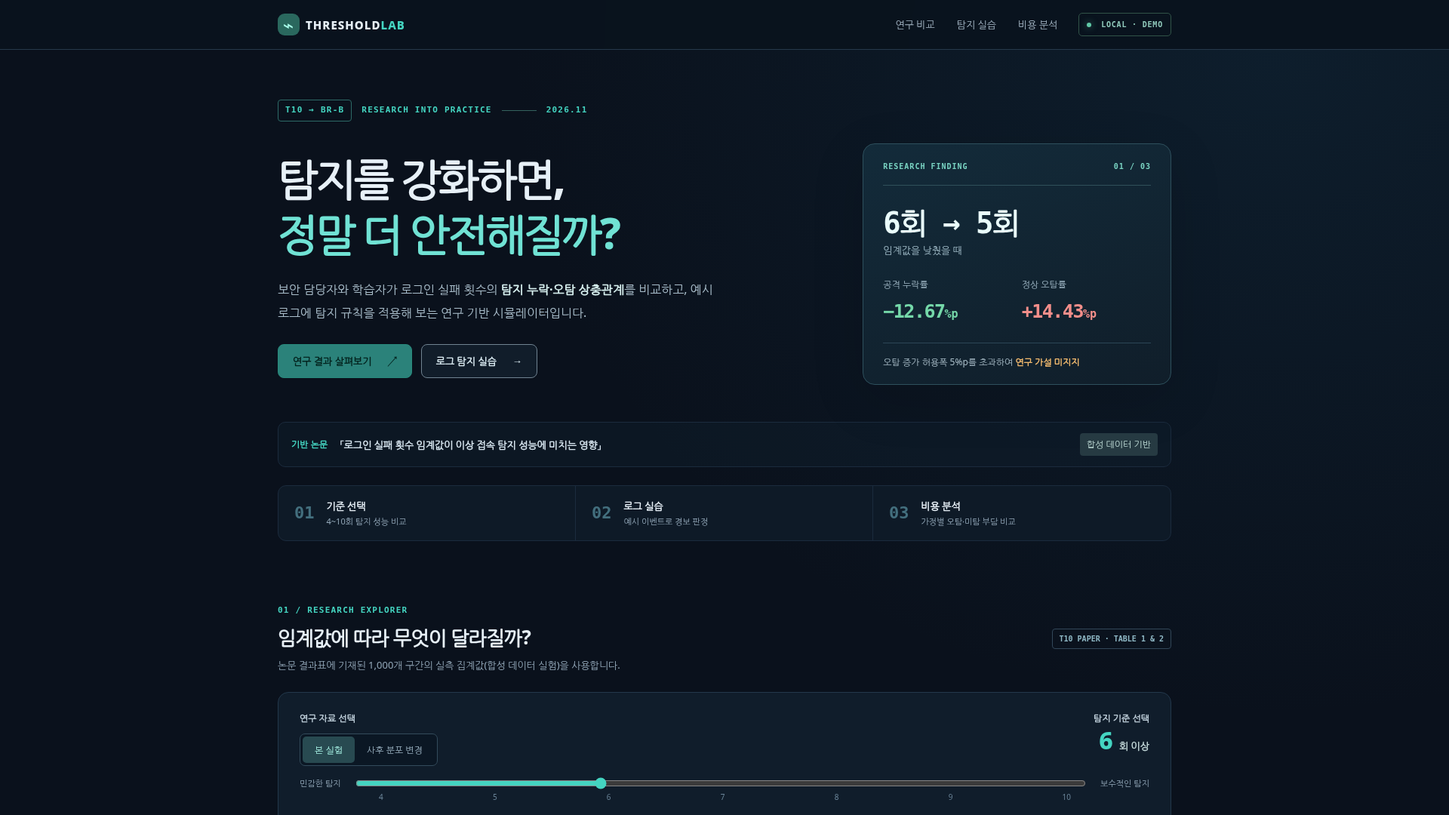
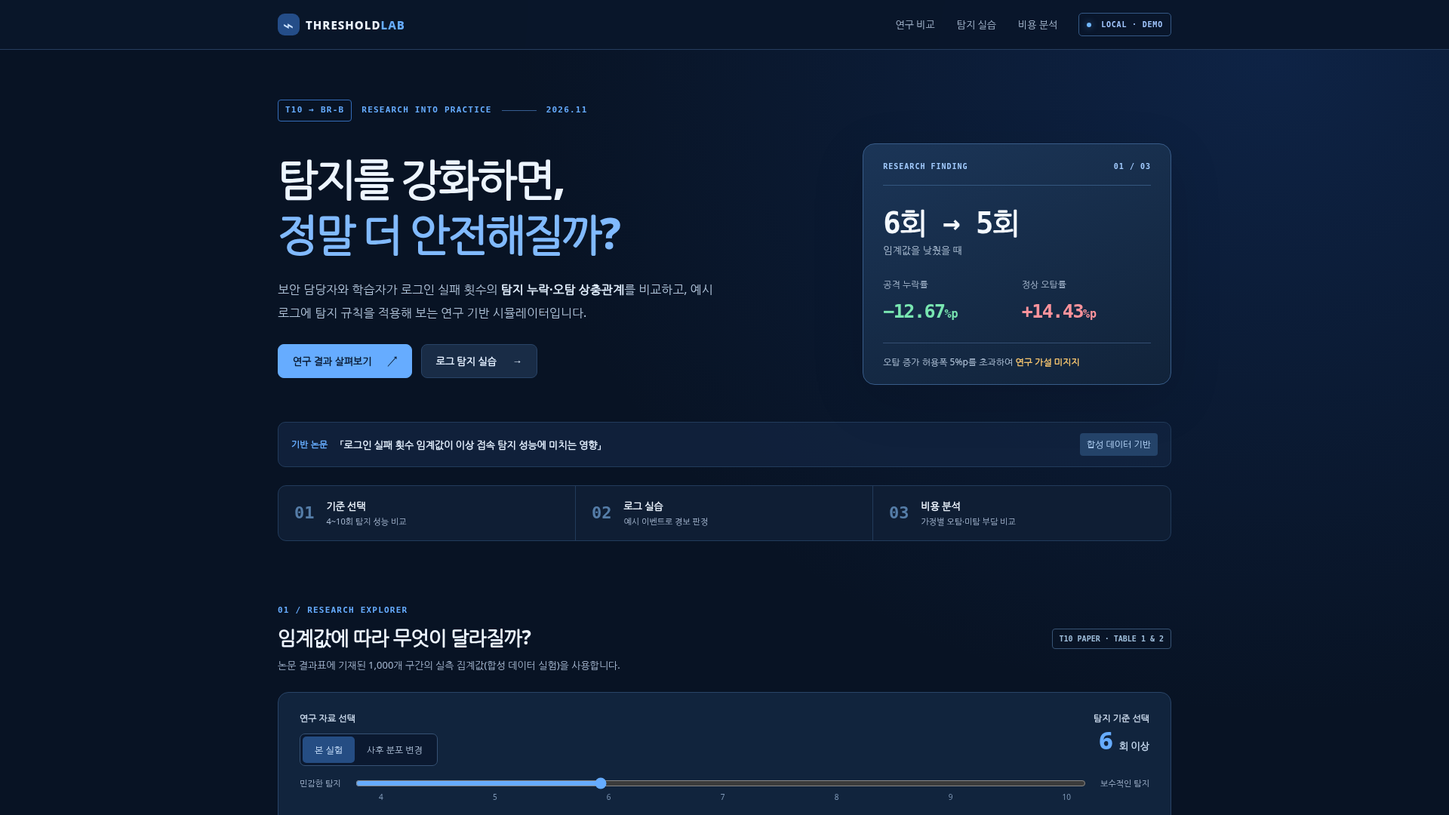
Update design to sapphire blue theme v0.2

diff --git a/styles.css b/styles.css
@@ -1,1 +1,1 @@
-:root{color-scheme:dark;--bg:#0a111c;--bg2:#0d1926;--panel:#101d2b;--panel2:#122334;--line:#23384b;--line2:#1b2b3d;--text:#e7f0f7;--muted:#94a9ba;--subtle:#6b8599;--accent:#44d5c1;--blue:#62a9fa;--amber:#f2ba6e;--red:#f38e8a;--green:#75d8a9;--radius:14px}*{box-sizing:border-box}html{scroll-behavior:smooth;scroll-padding-top:90px}body{margin:0;background:radial-gradient(ellipse 70% 29% at 88% 2%,#13314566,transparent 75%),var(--bg);color:var(--text);font:15px/1.6 system-ui,-apple-system,'Malgun Gothic','Apple SD Gothic Neo',sans-serif}button,input,select,textarea{font:inherit}button,a{touch-action:manipulation}a{color:inherit;text-decoration:none}a:hover{color:white}button{cursor:pointer}button:disabled{opacity:.45;cursor:not-allowed}button:focus-visible,a:focus-visible,input:focus-visible,textarea:focus-visible,select:focus-visible{outline:3px solid var(--accent);outline-offset:3px}input[type=range]{accent-color:var(--accent);cursor:pointer;width:100%}strong,b{font-weight:700}h1,h2,h3,p{margin-top:0}.skip-link{position:absolute;top:-100px;left:12px;padding:10px;background:#fff;color:#000;z-index:50}.skip-link:focus{top:12px}.visually-hidden{position:absolute;width:1px;height:1px;padding:0;clip:rect(0,0,0,0);overflow:hidden;white-space:nowrap}.topbar{height:66px;position:sticky;top:0;z-index:20;background:#0a131ef2;border-bottom:1px solid #26394b;backdrop-filter:blur(14px)}.topbar-inner{max-width:1240px;height:100%;margin:auto;display:flex;align-items:center;gap:28px;padding:0 28px}.brand{font-weight:800;letter-spacing:.07em;display:flex;align-items:center;gap:8px;font-size:15px;white-space:nowrap}.brand-symbol{width:29px;height:29px;display:inline-flex;align-items:center;justify-content:center;border-radius:9px;background:#2a685e;color:#aaffeb;font-size:24px;font-weight:400;line-height:1}.brand-light{color:var(--accent)}.navlinks{display:flex;align-items:center;gap:29px;margin-left:auto}.navlinks a{font-size:13px;color:#a8bac9}.navlinks a:hover{color:var(--accent)}.top-status{font:700 10px/1.3 ui-monospace,Consolas,monospace;color:#90cabc;letter-spacing:.08em;border:1px solid #315348;border-radius:5px;padding:8px 10px;white-space:nowrap}.status-light{display:inline-block;width:6px;height:6px;border-radius:50%;background:#60c9a8;margin-right:6px;box-shadow:0 0 10px #66d7a891}.page{max-width:1240px;margin:0 auto;padding:0 28px}.hero{padding-top:66px}.eyebrow,.section-index{font:700 11px/1.5 ui-monospace,Consolas,monospace;letter-spacing:.11em;color:var(--accent);display:flex;align-items:center;gap:13px}.tiny-box{border:1px solid #2d6a67;padding:5px 9px;border-radius:4px}.eyebrow-line{height:1px;background:#35635f;width:46px}.hero-content{display:grid;grid-template-columns:minmax(0,1.33fr) minmax(300px,.76fr);gap:60px;align-items:center;padding:29px 0 49px}.hero h1{font-size:clamp(36px,4.2vw,57px);letter-spacing:-.055em;line-height:1.28;margin-bottom:24px;font-weight:850}.gradient-text{color:#70e2d4}.hero-description{font-size:16px;color:#acc0cd;line-height:1.9;max-width:590px;word-break:keep-all;margin:0 0 27px}.hero-description strong{color:#d7f0ef}.hero-actions{display:flex;gap:12px;flex-wrap:wrap}.btn{display:inline-flex;gap:21px;align-items:center;justify-content:center;border:1px solid var(--line);padding:11px 19px;border-radius:8px;font-size:13px;font-weight:700;min-height:45px;transition:background .15s,border-color .15s}.btn.primary{background:var(--accent);color:#03241f;border-color:var(--accent)}.btn.primary:hover{background:#7de9d7;color:#03241f}.btn.ghost{background:#162635;color:#d8e9f0}.btn.ghost:hover{background:#203648}.hero-metric{background:linear-gradient(160deg,#132b3a,#101e2a);border:1px solid #2e505d;border-radius:16px;min-width:0;padding:23px 26px 20px;box-shadow:0 20px 70px #0002}.metric-caption{display:flex;justify-content:space-between;color:#79d3c2;font:700 10px/1.3 ui-monospace,monospace;letter-spacing:.1em;border-bottom:1px solid #30505a;padding-bottom:18px}.metric-key{font:800 39px/1.3 ui-monospace,Consolas,monospace;color:#e9fcfb;margin-top:25px;letter-spacing:-.04em}.metric-subtitle{color:#a2bdc9;font-size:13px}.hero-stats{display:grid;grid-template-columns:1fr 1fr;gap:12px;margin:25px 0 21px}.hero-stats>div{display:flex;flex-direction:column;gap:7px;min-width:0}.hero-stats span{font-size:12px;color:#9db5c3}.hero-stats strong{font-size:25px;font-family:ui-monospace,Consolas,monospace;letter-spacing:-.06em;white-space:nowrap}.hero-stats small{font-size:15px;letter-spacing:0}.good{color:var(--green)}.bad{color:var(--red)}.metric-foot{border-top:1px solid #2c4656;color:#a9bdc8;font-size:12px;padding-top:15px}.metric-foot b{color:var(--amber)}.research-citation{display:flex;align-items:center;gap:17px;border:1px solid var(--line2);border-radius:10px;background:#111f2d70;padding:14px 17px;font-size:12px;color:#afc2cd;flex-wrap:wrap}.research-citation>span:first-child{color:var(--accent);font-weight:700;white-space:nowrap}.research-citation strong{font-size:13px;color:#d6e4ee;font-weight:600}.citation-tag{margin-left:auto;border-radius:4px;background:#263a42;color:#bedbd6;padding:5px 9px;white-space:nowrap}.steps{display:grid;grid-template-columns:repeat(3,1fr);border:1px solid var(--line2);border-radius:11px;background:#0e1a27;margin-top:24px;overflow:hidden}.steps>div{display:flex;align-items:center;gap:16px;padding:16px 21px}.steps>div:not(:last-child){border-right:1px solid var(--line2)}.steps>div>span{font:800 22px/1.2 ui-monospace,monospace;color:#436f7e}.steps p{display:flex;flex-direction:column;gap:2px;margin:0}.steps b{font-size:13px}.steps small{font-size:11px;color:var(--muted)}.section-block{margin-top:84px;scroll-margin-top:88px}.section-heading{display:flex;justify-content:space-between;align-items:center;gap:18px;margin-bottom:25px}.section-index{margin-bottom:10px}.section-heading h2{font-size:26px;letter-spacing:-.035em;line-height:1.36;margin-bottom:8px}.section-subtitle{font-size:13px;color:var(--muted);margin:0}.badge{border-radius:4px;padding:5px 9px;font:700 10px/1.5 ui-monospace,monospace;white-space:nowrap;border:1px solid #324759;color:#b2c6d2}.badge.muted{color:#8fb8c5}.badge.aqua{color:#7be6d1;border-color:#307265}.panel{background:var(--panel);border:1px solid var(--line);border-radius:var(--radius);padding:22px;min-width:0}.control-panel{padding:24px 28px}.control-top{display:flex;justify-content:space-between;align-items:flex-start;gap:20px}.input-title{color:#bdcdd8;font-size:12px;font-weight:650;display:block;margin-bottom:11px}.segmented{display:flex;gap:0;border:1px solid #334b5b;border-radius:7px;padding:3px;width:max-content;background:#0b1724}.segmented button{border:0;color:#9ab1c0;background:transparent;border-radius:5px;padding:8px 16px;font-size:12px}.segmented button[aria-pressed=true]{background:#284a51;color:#a8f4e6}.threshold-head{text-align:right}.threshold-head .input-title{margin-bottom:0}.threshold-display{display:block;color:var(--accent);font-size:32px;font-weight:800;line-height:1.25}.threshold-display small{color:#bed3d4;font-size:13px}.slider-row{display:flex;gap:17px;align-items:center;margin-top:13px}.slider-row>span{font-size:11px;color:var(--muted);white-space:nowrap}.slider-ticks{display:flex;justify-content:space-between;margin:0 104px 0 105px;color:var(--subtle);font-size:10px}.context-text{color:var(--muted);font-size:12px;margin:16px 0 0}.mode-description{margin-top:7px;color:#79aeaf}.stats-grid{display:grid;grid-template-columns:repeat(4,minmax(0,1fr));gap:13px;margin:15px 0}.stat-card{background:var(--panel);border:1px solid var(--line);border-radius:12px;padding:19px 20px;min-height:133px;display:flex;flex-direction:column;gap:9px}.stat-card>span{font-size:12px;color:#acc0cd}.stat-card>strong{font:800 29px/1.2 ui-monospace,Consolas,monospace;letter-spacing:-.03em}.stat-card>small{font-size:11px;color:var(--muted)}.two-col{display:grid;grid-template-columns:1.1fr 1fr;gap:15px}.panel-head{display:flex;align-items:center;justify-content:space-between;gap:12px;margin-bottom:22px}.panel-head h3{font-size:15px;line-height:1.4;margin:0;letter-spacing:-.02em}.legend{display:flex;gap:8px;align-items:center;white-space:nowrap;font-size:10px;color:#a9bfce}.legend i{width:9px;height:9px;display:inline-block;border-radius:2px}.legend-blue{background:var(--blue)}.legend-amber{background:var(--amber)}.label-small{color:var(--muted);font-size:11px}.chart-panel,.matrix-panel{min-height:334px}.tradeoff-chart{height:223px;display:flex;align-items:end;justify-content:space-around;gap:5px;padding:12px 1px 0;border-bottom:1px solid #375064;background:repeating-linear-gradient(to top,transparent,transparent 54px,#1b3243 55px)}.bar-group{display:flex;flex-direction:column;justify-content:flex-end;gap:6px;min-width:0;align-items:center;height:100%;flex:1;position:relative}.bar-inner{height:166px;display:flex;align-items:flex-end;gap:4px;width:100%;max-width:64px;justify-content:center}.bar-group .bar{width:32%;max-width:25px;min-width:9px;border-radius:4px 4px 0 0;position:relative;transition:height .2s ease}.bar.blue{background:#4891d0}.bar.amber{background:#d7a45e}.bar-group.selected .bar.blue{background:#7db7ff;box-shadow:0 0 11px #559fff42}.bar-group.selected .bar.amber{background:#ffd08f;box-shadow:0 0 11px #e8b25d42}.bar-group.selected:after{content:'';position:absolute;inset:-9px 0 19px;border:1px dashed #6a9d9f;border-radius:6px;pointer-events:none}.bar-group .bar-label{font:600 11px ui-monospace,monospace;color:#a6bac7;height:18px}.bar-group.selected .bar-label{color:var(--accent)}.micro-note{font-size:11px;color:var(--subtle);margin:12px 0 0;line-height:1.55}.matrix-grid{display:grid;grid-template-columns:95px 1fr 1fr;grid-template-rows:24px 83px 83px;gap:5px;align-items:stretch}.matrix-col,.matrix-axis{font-size:10px;color:#a9c0cd;display:flex;justify-content:center;align-items:center;text-align:center}.matrix-axis{padding:2px;line-height:1.3}.matrix-cell{border-radius:8px;display:flex;flex-direction:column;align-items:center;justify-content:center;gap:3px;border:1px solid #34545b}.matrix-cell span{font-size:11px}.matrix-cell strong{font:800 26px ui-monospace,monospace}.matrix-cell.tp{background:#173d3f;color:#9aefdc}.matrix-cell.tn{background:#1b3740;color:#b0e1eb}.matrix-cell.fp{background:#473524;color:#ffd69d;border-color:#5c4c33}.matrix-cell.fn{background:#41272c;color:#f7afb0;border-color:#58363d}.results-panel{margin-top:15px;padding-bottom:13px}.results-panel .panel-head{margin-bottom:8px}.table-scroll{overflow-x:auto}.table-scroll table{border-collapse:collapse;width:100%;font-size:12px;white-space:nowrap}.table-scroll th{color:#9cb4c2;font-weight:600;text-align:right;border-bottom:1px solid #354d5d;padding:12px 10px}.table-scroll td{color:#d9e9f0;text-align:right;padding:10px;border-bottom:1px solid #1f3344;font-variant-numeric:tabular-nums}.table-scroll th:first-child,.table-scroll td:first-child{text-align:left}.table-scroll tbody tr.selected{background:#24414568}.table-scroll tbody tr.selected td:first-child{color:var(--accent);font-weight:750}.table-scroll tbody tr:last-child td{border-bottom:0}.insight-box{border:1px solid #6e5837;background:#2b271e;border-radius:12px;padding:18px 20px;display:flex;gap:15px;margin-top:15px}.insight-icon{border-radius:50%;background:#765b32;color:#ffdc9c;height:24px;width:24px;min-width:24px;text-align:center;font-size:16px;font-weight:800;line-height:24px}.insight-box strong{color:#ffd397;font-size:14px}.insight-box p{margin:7px 0 0;color:#d9c6a5;font-size:12px}.insight-box .insight-note{color:#bdb4a3;font-size:11px}.demo-warning{border:1px solid #345461;background:#132632;padding:12px 17px;color:#b8cfd6;border-radius:9px;font-size:12px;margin-bottom:15px}.demo-warning b{color:#b7efda}.simulator-layout{grid-template-columns:1fr 1fr}.editor-panel textarea{display:block;width:100%;min-height:285px;resize:vertical;background:#091522;color:#b6e5d0;border:1px solid #344b5c;border-radius:9px;padding:13px;font:12px/1.55 ui-monospace,Consolas,monospace;white-space:pre;tab-size:2}.small-label{font-size:11px;color:#a7c0cc;display:block;margin:0 0 8px}.text-button{border:0;background:none;color:var(--accent);font-size:12px;text-decoration:underline;text-underline-offset:3px}.text-button:hover{color:#a6ffee}.editor-actions{display:flex;align-items:center;gap:13px;margin-top:16px;flex-wrap:wrap}.sim-kpis{display:grid;grid-template-columns:repeat(4,1fr);gap:7px;margin-bottom:24px}.sim-kpis>div{background:#172a3a;border:1px solid #2b4353;border-radius:8px;padding:13px 7px;text-align:center;display:flex;flex-direction:column;gap:7px}.sim-kpis span{font-size:10px;color:#a4bac7}.sim-kpis b{font:800 24px ui-monospace,monospace}.simulator-output .panel-head{margin-bottom:16px}.sim-table-wrap{max-height:289px;min-height:165px;overflow:auto}.sim-table-wrap table{font-size:11px}.sim-table-wrap th,.sim-table-wrap td{padding:9px 6px}.sim-table-wrap th:first-child,.sim-table-wrap td:first-child{text-align:left}.sim-table-wrap .item-ip{display:block;color:#cedee8}.sim-table-wrap .item-time{display:block;color:#83a6b8;font-size:10px}.sim-table-wrap td:first-child{min-width:135px}.class-tp,.class-tn{color:var(--green)}.class-fn,.class-fp{color:var(--red)}.errors{font-size:11px;margin:5px 0;color:#ffb4ab}.errors ul{padding-left:18px;margin:5px 0}.scenario-layout{grid-template-columns:.76fr 1.24fr}.setting-row{margin:19px 0 22px}.setting-row label{display:flex;justify-content:space-between;align-items:center;gap:10px;font-size:12px;color:#bbd0d9;margin-bottom:12px}.setting-row label strong{color:var(--accent);font:800 18px ui-monospace,monospace}.preset-row{display:flex;gap:7px;margin-top:8px}.preset-row button{border:1px solid #344e5d;background:#152737;color:#94adbb;border-radius:6px;padding:4px 14px;font-size:11px}.preset-row button[aria-pressed=true]{color:#b5f6e6;border-color:#378b78;background:#1a3f3b}.setting-row select{background:#132838;color:#d8e9ef;border:1px solid #385062;padding:10px 13px;border-radius:7px;width:100%;font-size:12px}.formula{background:#0c1724;border:1px solid #294051;border-radius:8px;padding:13px}.formula small{font-size:10px;color:#89a5b5}.formula p{font:600 12px/1.8 ui-monospace,Consolas,monospace;color:#9fe9d8;margin:8px 0}.cost-highlight{background:linear-gradient(120deg,#1b3940,#142a38);border:1px solid #31625f;border-radius:9px;padding:13px 18px;display:flex;align-items:center;gap:18px;flex-wrap:wrap;margin-bottom:16px}.cost-highlight>span{font-size:11px;color:#accacf}.cost-highlight strong{font:800 25px ui-monospace,monospace;color:var(--accent)}.cost-highlight p{margin:0;color:#a8c5c8;font-size:11px}.cost-bars{display:flex;flex-direction:column;gap:10px}.cost-item{display:grid;grid-template-columns:35px 1fr 58px;gap:13px;align-items:center}.cost-item .cost-name{font-size:11px;color:#b9cbd4}.cost-item .cost-track{height:13px;background:#1a2f41;border-radius:3px;overflow:hidden}.cost-item .cost-fill{height:100%;background:#5793b8;border-radius:3px;transition:width .2s ease}.cost-item.best .cost-fill{background:var(--accent)}.cost-item .cost-number{font:600 11px ui-monospace,monospace;color:#a7c2cf;text-align:right}.footer-actions{margin-top:20px;display:flex;align-items:center;gap:15px}.footer{margin-top:89px;border-top:1px solid #263a4a;padding:33px 0 54px;display:grid;grid-template-columns:1.1fr 1fr;gap:35px;color:#7e9bab}.footer-brand{margin-bottom:14px;color:#d2e7e7}.footer p,.footer ul{margin:5px 0;font-size:11px}.footer ul{padding-left:17px}.footer li{margin:4px 0}@media(max-width:980px){.hero-content{gap:25px;grid-template-columns:1.1fr 1fr}.hero h1{font-size:clamp(31px,4.4vw,44px)}.hero-stats strong{font-size:20px}.two-col{grid-template-columns:1fr}.chart-panel,.matrix-panel{min-height:310px}.simulator-layout,.scenario-layout{grid-template-columns:1fr}.stats-grid{grid-template-columns:repeat(2,1fr)}.section-block{margin-top:65px}}@media(max-width:660px){.page{padding:0 16px}.topbar-inner{padding:0 16px}.topbar{height:58px}.brand{font-size:12px}.navlinks{gap:12px}.navlinks a{font-size:11px}.top-status{display:none}.hero{padding-top:39px}.hero-content{grid-template-columns:1fr;padding:20px 0 24px}.hero h1{font-size:clamp(30px,8vw,43px);margin-bottom:18px}.hero-description{font-size:14px}.hero-metric{padding:17px 20px}.hero-stats strong{font-size:26px}.research-citation{gap:8px;padding:12px;font-size:11px}.citation-tag{margin-left:0}.steps{grid-template-columns:1fr;margin-top:15px}.steps>div{padding:11px 14px}.steps>div:not(:last-child){border-right:0;border-bottom:1px solid var(--line2)}.steps>div>span{font-size:17px}.steps p{flex-direction:row;align-items:center;gap:13px}.section-heading{align-items:flex-start;flex-direction:column;gap:9px}.section-heading h2{font-size:22px}.section-block{margin-top:52px}.control-panel{padding:18px}.control-top{flex-wrap:wrap}.threshold-head{text-align:left}.slider-row{gap:8px}.slider-row>span{font-size:9px;max-width:60px;white-space:normal}.slider-ticks{margin:0 68px}.stat-card{padding:14px;min-height:117px}.stat-card>strong{font-size:23px}.stat-card>small{font-size:10px}.panel{padding:16px}.panel-head{flex-wrap:wrap;gap:7px}.legend{font-size:9px}.matrix-grid{grid-template-columns:70px 1fr 1fr}.matrix-cell span{font-size:9px}.matrix-cell strong{font-size:23px}.insight-box{padding:14px 12px}.sim-kpis{grid-template-columns:repeat(2,1fr)}.footer{grid-template-columns:1fr;margin-top:50px}.cost-highlight{gap:10px}}@media(max-width:360px){.navlinks{gap:7px}.navlinks a{font-size:10px}.hero-stats strong{font-size:20px}.stat-card>strong{font-size:21px}}@media(prefers-reduced-motion:reduce){*,*::before,*::after{animation-duration:.01ms!important;transition-duration:.01ms!important;scroll-behavior:auto!important}}
+:root{color-scheme:dark;--bg:#081324;--bg2:#0e1d32;--panel:#11243d;--panel2:#182d4a;--line:#294467;--line2:#223b5b;--text:#edf5ff;--muted:#abbdd6;--subtle:#809ab9;--accent:#66acff;--blue:#6a9dfb;--amber:#f3c36e;--red:#ff939b;--green:#79e6b1;--radius:14px}*{box-sizing:border-box}html{scroll-behavior:smooth;scroll-padding-top:90px}body{margin:0;background:radial-gradient(ellipse 70% 29% at 88% 2%,#173b7766,transparent 75%),var(--bg);color:var(--text);font:15px/1.6 system-ui,-apple-system,'Malgun Gothic','Apple SD Gothic Neo',sans-serif}button,input,select,textarea{font:inherit}button,a{touch-action:manipulation}a{color:inherit;text-decoration:none}a:hover{color:white}button{cursor:pointer}button:disabled{opacity:.45;cursor:not-allowed}button:focus-visible,a:focus-visible,input:focus-visible,textarea:focus-visible,select:focus-visible{outline:3px solid var(--accent);outline-offset:3px}input[type=range]{accent-color:var(--accent);cursor:pointer;width:100%}strong,b{font-weight:700}h1,h2,h3,p{margin-top:0}.skip-link{position:absolute;top:-100px;left:12px;padding:10px;background:#fff;color:#000;z-index:50}.skip-link:focus{top:12px}.visually-hidden{position:absolute;width:1px;height:1px;padding:0;clip:rect(0,0,0,0);overflow:hidden;white-space:nowrap}.topbar{height:66px;position:sticky;top:0;z-index:20;background:#09162af2;border-bottom:1px solid #263d5e;backdrop-filter:blur(14px)}.topbar-inner{max-width:1240px;height:100%;margin:auto;display:flex;align-items:center;gap:28px;padding:0 28px}.brand{font-weight:800;letter-spacing:.07em;display:flex;align-items:center;gap:8px;font-size:15px;white-space:nowrap}.brand-symbol{width:29px;height:29px;display:inline-flex;align-items:center;justify-content:center;border-radius:9px;background:#244d88;color:#cbe2ff;font-size:24px;font-weight:400;line-height:1}.brand-light{color:var(--accent)}.navlinks{display:flex;align-items:center;gap:29px;margin-left:auto}.navlinks a{font-size:13px;color:#aec1d8}.navlinks a:hover{color:var(--accent)}.top-status{font:700 10px/1.3 ui-monospace,Consolas,monospace;color:#a2c7ff;letter-spacing:.08em;border:1px solid #355986;border-radius:5px;padding:8px 10px;white-space:nowrap}.status-light{display:inline-block;width:6px;height:6px;border-radius:50%;background:#70b8ff;margin-right:6px;box-shadow:0 0 10px #65a8ff91}.page{max-width:1240px;margin:0 auto;padding:0 28px}.hero{padding-top:66px}.eyebrow,.section-index{font:700 11px/1.5 ui-monospace,Consolas,monospace;letter-spacing:.11em;color:var(--accent);display:flex;align-items:center;gap:13px}.tiny-box{border:1px solid #346cb9;padding:5px 9px;border-radius:4px}.eyebrow-line{height:1px;background:#365d91;width:46px}.hero-content{display:grid;grid-template-columns:minmax(0,1.33fr) minmax(300px,.76fr);gap:60px;align-items:center;padding:29px 0 49px}.hero h1{font-size:clamp(36px,4.2vw,57px);letter-spacing:-.055em;line-height:1.28;margin-bottom:24px;font-weight:850}.gradient-text{color:#81baff}.hero-description{font-size:16px;color:#b4c7dd;line-height:1.9;max-width:590px;word-break:keep-all;margin:0 0 27px}.hero-description strong{color:#e3f0ff}.hero-actions{display:flex;gap:12px;flex-wrap:wrap}.btn{display:inline-flex;gap:21px;align-items:center;justify-content:center;border:1px solid var(--line);padding:11px 19px;border-radius:8px;font-size:13px;font-weight:700;min-height:45px;transition:background .15s,border-color .15s}.btn.primary{background:var(--accent);color:#091a33;border-color:var(--accent)}.btn.primary:hover{background:#95c5ff;color:#091a33}.btn.ghost{background:#192c46;color:#e3efff}.btn.ghost:hover{background:#233d60}.hero-metric{background:linear-gradient(160deg,#1b3557,#11233a);border:1px solid #385c89;border-radius:16px;min-width:0;padding:23px 26px 20px;box-shadow:0 20px 70px #0002}.metric-caption{display:flex;justify-content:space-between;color:#a3ccff;font:700 10px/1.3 ui-monospace,monospace;letter-spacing:.1em;border-bottom:1px solid #34577f;padding-bottom:18px}.metric-key{font:800 39px/1.3 ui-monospace,Consolas,monospace;color:#f4f9ff;margin-top:25px;letter-spacing:-.04em}.metric-subtitle{color:#b5c7db;font-size:13px}.hero-stats{display:grid;grid-template-columns:1fr 1fr;gap:12px;margin:25px 0 21px}.hero-stats>div{display:flex;flex-direction:column;gap:7px;min-width:0}.hero-stats span{font-size:12px;color:#aebfd5}.hero-stats strong{font-size:25px;font-family:ui-monospace,Consolas,monospace;letter-spacing:-.06em;white-space:nowrap}.hero-stats small{font-size:15px;letter-spacing:0}.good{color:var(--green)}.bad{color:var(--red)}.metric-foot{border-top:1px solid #344e72;color:#b9cbe0;font-size:12px;padding-top:15px}.metric-foot b{color:var(--amber)}.research-citation{display:flex;align-items:center;gap:17px;border:1px solid var(--line2);border-radius:10px;background:#132643b8;padding:14px 17px;font-size:12px;color:#b8c9de;flex-wrap:wrap}.research-citation>span:first-child{color:var(--accent);font-weight:700;white-space:nowrap}.research-citation strong{font-size:13px;color:#e1edfc;font-weight:600}.citation-tag{margin-left:auto;border-radius:4px;background:#244369;color:#bcdcff;padding:5px 9px;white-space:nowrap}.steps{display:grid;grid-template-columns:repeat(3,1fr);border:1px solid var(--line2);border-radius:11px;background:#0f1e34;margin-top:24px;overflow:hidden}.steps>div{display:flex;align-items:center;gap:16px;padding:16px 21px}.steps>div:not(:last-child){border-right:1px solid var(--line2)}.steps>div>span{font:800 22px/1.2 ui-monospace,monospace;color:#557da8}.steps p{display:flex;flex-direction:column;gap:2px;margin:0}.steps b{font-size:13px}.steps small{font-size:11px;color:var(--muted)}.section-block{margin-top:84px;scroll-margin-top:88px}.section-heading{display:flex;justify-content:space-between;align-items:center;gap:18px;margin-bottom:25px}.section-index{margin-bottom:10px}.section-heading h2{font-size:26px;letter-spacing:-.035em;line-height:1.36;margin-bottom:8px}.section-subtitle{font-size:13px;color:var(--muted);margin:0}.badge{border-radius:4px;padding:5px 9px;font:700 10px/1.5 ui-monospace,monospace;white-space:nowrap;border:1px solid #385475;color:#c4d2e5}.badge.muted{color:#9fbedb}.badge.aqua{color:#aad0ff;border-color:#376da8}.panel{background:var(--panel);border:1px solid var(--line);border-radius:var(--radius);padding:22px;min-width:0}.control-panel{padding:24px 28px}.control-top{display:flex;justify-content:space-between;align-items:flex-start;gap:20px}.input-title{color:#c4d3e5;font-size:12px;font-weight:650;display:block;margin-bottom:11px}.segmented{display:flex;gap:0;border:1px solid #365274;border-radius:7px;padding:3px;width:max-content;background:#0b1930}.segmented button{border:0;color:#afc2d9;background:transparent;border-radius:5px;padding:8px 16px;font-size:12px}.segmented button[aria-pressed=true]{background:#254d83;color:#cee5ff}.threshold-head{text-align:right}.threshold-head .input-title{margin-bottom:0}.threshold-display{display:block;color:var(--accent);font-size:32px;font-weight:800;line-height:1.25}.threshold-display small{color:#bfd2e8;font-size:13px}.slider-row{display:flex;gap:17px;align-items:center;margin-top:13px}.slider-row>span{font-size:11px;color:var(--muted);white-space:nowrap}.slider-ticks{display:flex;justify-content:space-between;margin:0 104px 0 105px;color:var(--subtle);font-size:10px}.context-text{color:var(--muted);font-size:12px;margin:16px 0 0}.mode-description{margin-top:7px;color:#9abfe9}.stats-grid{display:grid;grid-template-columns:repeat(4,minmax(0,1fr));gap:13px;margin:15px 0}.stat-card{background:var(--panel);border:1px solid var(--line);border-radius:12px;padding:19px 20px;min-height:133px;display:flex;flex-direction:column;gap:9px}.stat-card>span{font-size:12px;color:#b4c7dd}.stat-card>strong{font:800 29px/1.2 ui-monospace,Consolas,monospace;letter-spacing:-.03em}.stat-card>small{font-size:11px;color:var(--muted)}.two-col{display:grid;grid-template-columns:1.1fr 1fr;gap:15px}.panel-head{display:flex;align-items:center;justify-content:space-between;gap:12px;margin-bottom:22px}.panel-head h3{font-size:15px;line-height:1.4;margin:0;letter-spacing:-.02em}.legend{display:flex;gap:8px;align-items:center;white-space:nowrap;font-size:10px;color:#c0cee1}.legend i{width:9px;height:9px;display:inline-block;border-radius:2px}.legend-blue{background:var(--blue)}.legend-amber{background:var(--amber)}.label-small{color:var(--muted);font-size:11px}.chart-panel,.matrix-panel{min-height:334px}.tradeoff-chart{height:223px;display:flex;align-items:end;justify-content:space-around;gap:5px;padding:12px 1px 0;border-bottom:1px solid #36577a;background:repeating-linear-gradient(to top,transparent,transparent 54px,#1f3655 55px)}.bar-group{display:flex;flex-direction:column;justify-content:flex-end;gap:6px;min-width:0;align-items:center;height:100%;flex:1;position:relative}.bar-inner{height:166px;display:flex;align-items:flex-end;gap:4px;width:100%;max-width:64px;justify-content:center}.bar-group .bar{width:32%;max-width:25px;min-width:9px;border-radius:4px 4px 0 0;position:relative;transition:height .2s ease}.bar.blue{background:#528fec}.bar.amber{background:#da9d51}.bar-group.selected .bar.blue{background:#94c1ff;box-shadow:0 0 11px #5b9eff54}.bar-group.selected .bar.amber{background:#ffce86;box-shadow:0 0 11px #e8b25d42}.bar-group.selected:after{content:'';position:absolute;inset:-9px 0 19px;border:1px dashed #84b2ff;border-radius:6px;pointer-events:none}.bar-group .bar-label{font:600 11px ui-monospace,monospace;color:#bacce1;height:18px}.bar-group.selected .bar-label{color:var(--accent)}.micro-note{font-size:11px;color:var(--subtle);margin:12px 0 0;line-height:1.55}.matrix-grid{display:grid;grid-template-columns:95px 1fr 1fr;grid-template-rows:24px 83px 83px;gap:5px;align-items:stretch}.matrix-col,.matrix-axis{font-size:10px;color:#bacfe5;display:flex;justify-content:center;align-items:center;text-align:center}.matrix-axis{padding:2px;line-height:1.3}.matrix-cell{border-radius:8px;display:flex;flex-direction:column;align-items:center;justify-content:center;gap:3px;border:1px solid #3d587c}.matrix-cell span{font-size:11px}.matrix-cell strong{font:800 26px ui-monospace,monospace}.matrix-cell.tp{background:#183f3e;color:#8ff0bd}.matrix-cell.tn{background:#203952;color:#bcdfff}.matrix-cell.fp{background:#433322;color:#ffdbad;border-color:#665136}.matrix-cell.fn{background:#432930;color:#ffb6bc;border-color:#71404b}.results-panel{margin-top:15px;padding-bottom:13px}.results-panel .panel-head{margin-bottom:8px}.table-scroll{overflow-x:auto}.table-scroll table{border-collapse:collapse;width:100%;font-size:12px;white-space:nowrap}.table-scroll th{color:#b7c9de;font-weight:600;text-align:right;border-bottom:1px solid #355271;padding:12px 10px}.table-scroll td{color:#e0edfb;text-align:right;padding:10px;border-bottom:1px solid #263e5d;font-variant-numeric:tabular-nums}.table-scroll th:first-child,.table-scroll td:first-child{text-align:left}.table-scroll tbody tr.selected{background:#2e548b80}.table-scroll tbody tr.selected td:first-child{color:var(--accent);font-weight:750}.table-scroll tbody tr:last-child td{border-bottom:0}.insight-box{border:1px solid #88662f;background:#30291e;border-radius:12px;padding:18px 20px;display:flex;gap:15px;margin-top:15px}.insight-icon{border-radius:50%;background:#77561e;color:#ffdfac;height:24px;width:24px;min-width:24px;text-align:center;font-size:16px;font-weight:800;line-height:24px}.insight-box strong{color:#ffdb99;font-size:14px}.insight-box p{margin:7px 0 0;color:#e7d3b0;font-size:12px}.insight-box .insight-note{color:#ccbeaa;font-size:11px}.demo-warning{border:1px solid #375879;background:#172b46;padding:12px 17px;color:#c0d5e9;border-radius:9px;font-size:12px;margin-bottom:15px}.demo-warning b{color:#afd8ff}.simulator-layout{grid-template-columns:1fr 1fr}.editor-panel textarea{display:block;width:100%;min-height:285px;resize:vertical;background:#0a182f;color:#b7d8ff;border:1px solid #355679;border-radius:9px;padding:13px;font:12px/1.55 ui-monospace,Consolas,monospace;white-space:pre;tab-size:2}.small-label{font-size:11px;color:#b6cbdf;display:block;margin:0 0 8px}.text-button{border:0;background:none;color:var(--accent);font-size:12px;text-decoration:underline;text-underline-offset:3px}.text-button:hover{color:#d4e9ff}.editor-actions{display:flex;align-items:center;gap:13px;margin-top:16px;flex-wrap:wrap}.sim-kpis{display:grid;grid-template-columns:repeat(4,1fr);gap:7px;margin-bottom:24px}.sim-kpis>div{background:#1a3152;border:1px solid #315071;border-radius:8px;padding:13px 7px;text-align:center;display:flex;flex-direction:column;gap:7px}.sim-kpis span{font-size:10px;color:#b5c9df}.sim-kpis b{font:800 24px ui-monospace,monospace}.simulator-output .panel-head{margin-bottom:16px}.sim-table-wrap{max-height:289px;min-height:165px;overflow:auto}.sim-table-wrap table{font-size:11px}.sim-table-wrap th,.sim-table-wrap td{padding:9px 6px}.sim-table-wrap th:first-child,.sim-table-wrap td:first-child{text-align:left}.sim-table-wrap .item-ip{display:block;color:#e1edfd}.sim-table-wrap .item-time{display:block;color:#9fbfe0;font-size:10px}.sim-table-wrap td:first-child{min-width:135px}.class-tp,.class-tn{color:var(--green)}.class-fn,.class-fp{color:var(--red)}.errors{font-size:11px;margin:5px 0;color:#ffb4b8}.errors ul{padding-left:18px;margin:5px 0}.scenario-layout{grid-template-columns:.76fr 1.24fr}.setting-row{margin:19px 0 22px}.setting-row label{display:flex;justify-content:space-between;align-items:center;gap:10px;font-size:12px;color:#c5d5e8;margin-bottom:12px}.setting-row label strong{color:var(--accent);font:800 18px ui-monospace,monospace}.preset-row{display:flex;gap:7px;margin-top:8px}.preset-row button{border:1px solid #355677;background:#172b48;color:#aebfdb;border-radius:6px;padding:4px 14px;font-size:11px}.preset-row button[aria-pressed=true]{color:#d0e6ff;border-color:#4c80bd;background:#1d416b}.setting-row select{background:#162c4a;color:#e4effe;border:1px solid #385a7f;padding:10px 13px;border-radius:7px;width:100%;font-size:12px}.formula{background:#0e1b32;border:1px solid #2d4d74;border-radius:8px;padding:13px}.formula small{font-size:10px;color:#a1bbd7}.formula p{font:600 12px/1.8 ui-monospace,Consolas,monospace;color:#b4d6ff;margin:8px 0}.cost-highlight{background:linear-gradient(120deg,#203e67,#18314e);border:1px solid #3d68a0;border-radius:9px;padding:13px 18px;display:flex;align-items:center;gap:18px;flex-wrap:wrap;margin-bottom:16px}.cost-highlight>span{font-size:11px;color:#c2d7eb}.cost-highlight strong{font:800 25px ui-monospace,monospace;color:var(--accent)}.cost-highlight p{margin:0;color:#b1c9e4;font-size:11px}.cost-bars{display:flex;flex-direction:column;gap:10px}.cost-item{display:grid;grid-template-columns:35px 1fr 58px;gap:13px;align-items:center}.cost-item .cost-name{font-size:11px;color:#c4d4e7}.cost-item .cost-track{height:13px;background:#20395e;border-radius:3px;overflow:hidden}.cost-item .cost-fill{height:100%;background:#5085cc;border-radius:3px;transition:width .2s ease}.cost-item.best .cost-fill{background:var(--accent)}.cost-item .cost-number{font:600 11px ui-monospace,monospace;color:#b9cee4;text-align:right}.footer-actions{margin-top:20px;display:flex;align-items:center;gap:15px}.footer{margin-top:89px;border-top:1px solid #2b4466;padding:33px 0 54px;display:grid;grid-template-columns:1.1fr 1fr;gap:35px;color:#95abc6}.footer-brand{margin-bottom:14px;color:#e2efff}.footer p,.footer ul{margin:5px 0;font-size:11px}.footer ul{padding-left:17px}.footer li{margin:4px 0}@media(max-width:980px){.hero-content{gap:25px;grid-template-columns:1.1fr 1fr}.hero h1{font-size:clamp(31px,4.4vw,44px)}.hero-stats strong{font-size:20px}.two-col{grid-template-columns:1fr}.chart-panel,.matrix-panel{min-height:310px}.simulator-layout,.scenario-layout{grid-template-columns:1fr}.stats-grid{grid-template-columns:repeat(2,1fr)}.section-block{margin-top:65px}}@media(max-width:660px){.page{padding:0 16px}.topbar-inner{padding:0 16px}.topbar{height:58px}.brand{font-size:12px}.navlinks{gap:12px}.navlinks a{font-size:11px}.top-status{display:none}.hero{padding-top:39px}.hero-content{grid-template-columns:1fr;padding:20px 0 24px}.hero h1{font-size:clamp(30px,8vw,43px);margin-bottom:18px}.hero-description{font-size:14px}.hero-metric{padding:17px 20px}.hero-stats strong{font-size:26px}.research-citation{gap:8px;padding:12px;font-size:11px}.citation-tag{margin-left:0}.steps{grid-template-columns:1fr;margin-top:15px}.steps>div{padding:11px 14px}.steps>div:not(:last-child){border-right:0;border-bottom:1px solid var(--line2)}.steps>div>span{font-size:17px}.steps p{flex-direction:row;align-items:center;gap:13px}.section-heading{align-items:flex-start;flex-direction:column;gap:9px}.section-heading h2{font-size:22px}.section-block{margin-top:52px}.control-panel{padding:18px}.control-top{flex-wrap:wrap}.threshold-head{text-align:left}.slider-row{gap:8px}.slider-row>span{font-size:9px;max-width:60px;white-space:normal}.slider-ticks{margin:0 68px}.stat-card{padding:14px;min-height:117px}.stat-card>strong{font-size:23px}.stat-card>small{font-size:10px}.panel{padding:16px}.panel-head{flex-wrap:wrap;gap:7px}.legend{font-size:9px}.matrix-grid{grid-template-columns:70px 1fr 1fr}.matrix-cell span{font-size:9px}.matrix-cell strong{font-size:23px}.insight-box{padding:14px 12px}.sim-kpis{grid-template-columns:repeat(2,1fr)}.footer{grid-template-columns:1fr;margin-top:50px}.cost-highlight{gap:10px}}@media(max-width:360px){.navlinks{gap:7px}.navlinks a{font-size:10px}.hero-stats strong{font-size:20px}.stat-card>strong{font-size:21px}}@media(prefers-reduced-motion:reduce){*,*::before,*::after{animation-duration:.01ms!important;transition-duration:.01ms!important;scroll-behavior:auto!important}}

diff --git a/index.html b/index.html
@@ -3,7 +3,7 @@
 <head>
   <meta charset="UTF-8" />
   <meta name="viewport" content="width=device-width, initial-scale=1.0" />
-  <meta name="theme-color" content="#0b1320" />
+  <meta name="theme-color" content="#081324" />
   <meta name="description" content="T10 연구 논문에 기반한 로그인 실패 임계값 실험실. 탐지 누락률, 오탐률, 비용 가정을 함께 비교합니다." />
   <title>Threshold Lab | 로그인 이상 탐지 실험실</title>
   <link rel="stylesheet" href="./styles.css" />
@@ -67,7 +67,7 @@
         <div class="panel cost-results"><div class="panel-head"><h3>가정별 기대 비용 비교</h3><span class="label-small">건당 상대 손실값</span></div><div class="cost-highlight"><span>이 가정에서 계산상 최소값</span><strong id="best-threshold">—</strong><p id="best-description">—</p></div><div id="cost-bars" class="cost-bars" aria-label="임계값별 가정 기대 비용 막대그래프"></div><p class="micro-note">계산상 가장 작은 값은 현재 가정에서만 유효하며 실제 운영 정책 권고가 아닙니다.</p></div></div>
         <div class="footer-actions"><button type="button" class="btn ghost" id="export-report">현재 분석 요약 TXT 저장 ↓</button><span id="export-status" class="label-small" role="status"></span></div>
       </section>
-      <footer class="footer"><div><div class="brand footer-brand"><span class="brand-symbol" aria-hidden="true">⌁</span> THRESHOLD<span class="brand-light">LAB</span></div><p>SKT ALEPH · T10 연구 결과 적용 / BR-B 앱 프로토타입 v0.1</p><p>논문: 「로그인 실패 횟수 임계값이 이상 접속 탐지 성능에 미치는 영향」 (2026-11-10)</p></div><div><p>연구 한계</p><ul><li>논문 집계 결과는 합성 데이터 연구에 한정</li><li>실제 인증 정책의 최적값·탐지율을 보장하지 않음</li><li>원시 연구 로그는 포함하지 않음</li><li>시뮬레이터 결과는 입력한 예시 로그에 한정</li></ul></div></footer>
+      <footer class="footer"><div><div class="brand footer-brand"><span class="brand-symbol" aria-hidden="true">⌁</span> THRESHOLD<span class="brand-light">LAB</span></div><p>SKT ALEPH · T10 연구 결과 적용 / BR-B 앱 프로토타입 v0.2</p><p>논문: 「로그인 실패 횟수 임계값이 이상 접속 탐지 성능에 미치는 영향」 (2026-11-10)</p></div><div><p>연구 한계</p><ul><li>논문 집계 결과는 합성 데이터 연구에 한정</li><li>실제 인증 정책의 최적값·탐지율을 보장하지 않음</li><li>원시 연구 로그는 포함하지 않음</li><li>시뮬레이터 결과는 입력한 예시 로그에 한정</li></ul></div></footer>
     </div>
   </main>
 </body>

diff --git a/README.md b/README.md
@@ -1,6 +1,6 @@
 # Threshold Lab — 로그인 이상 탐지 실험실
 
-**SKT ALEPH 마지막 과제 B (BR-B / 13번), 독립 실행 시제품 v0.1**  
+**SKT ALEPH 마지막 과제 B (BR-B / 13번), 독립 실행 시제품 v0.2**  
 연구 출처: 김봉경, 「로그인 실패 횟수 임계값이 이상 접속 탐지 성능에 미치는 영향」, 2026-11-10 (T10 C안 연구).
 
 ## 누구를 어떻게 돕는가
@@ -72,7 +72,8 @@ node --test tests/*.test.mjs
 - [x] 새 임시 폴더에서 실행할 수 있는 정적 앱 패키지 제공
 - [x] 연구 기반 기능 자동 테스트 11개 통과 및 브라우저 렌더링 검증
 - [ ] 사용자 직접 새 임시 폴더에서 압축 해제 및 실행 확인
-- [ ] BR-A(12번) **최종 확정 확인** 후 공개 URL 배포
+- [x] BR-A(12번) 최종 확정 (사용자 확인), BR-B v0.1 공개 URL 배포 (사용자 확인)
+- [ ] v0.2 색상 변경본 공개 URL 배포 및 반영 확인
 - [ ] 새 시크릿 창에서 공개 주소 직접 확인 (URL 배포 시)
 - [ ] BR-A 대표작 영역에 앱 공개 주소 연결
 - [ ] 최종 제출용 'AI와 나의 판단' 3줄에 사용자의 실제 판단 기록
@@ -93,9 +94,20 @@ node --test tests/*.test.mjs
 - `app.mjs`: UI 상태, 결과 시각화, 리포트 다운로드
 - `engine.mjs`: 연구 표, 계산식, 예시 생성, CSV 파서, 경보 판정
 - `tests/engine.test.mjs`: 독립형 자동 검증 11건
-- `검증기록.md`: 수행한 검증의 범위와 남은 확인
+- `검증기록.md`: v0.1 검증 기록
+- `검증기록_v0.2.md`: 색상 변경 후 브라우저/자동 테스트 검증 기록
+- `디자인_변경사항.md`: v0.2 팔레트 변경 내역
 - `preview-*.png`: 개발 중 브라우저 렌더링 미리보기
 
 ## BR-A 연계
 
-**BR-A 최종 확정 후** (1) 이 폴더의 정적 앱을 공개 HTTPS 주소로 배포하고, (2) 새 시크릿 창에서 로그인 없이 열리는지 확인하고, (3) BR-A 대표작 카드에 앱 제목·대상/도움·공개 링크·T10 논문 출처를 등록합니다. **공개 주소가 정해지기 전에는 미완성 앱을 공개 대표작으로 표시하지 않습니다.**
+BR-A는 사용자 확인에 따라 최종 확정 상태입니다. BR-B v0.1은 `https://br-b-threshold-lab.pages.dev`에 배포되었다고 사용자가 확인했습니다. v0.2는 이 ZIP의 업로드/푸시 후 배포 확인이 필요합니다. 새 시크릿 창에서 로그인 없이 열리는지 확인한 뒤 BR-A 대표작 카드에 앱 제목·대상/도움·공개 링크·T10 논문 출처를 연결합니다.
+
+
+## v0.2 디자인 업데이트 (2026-11-24)
+
+- 기존 v0.1 레이아웃, UI 문구, 기능, 데이터, 계산 로직 유지
+- 청록색 중심 다크 팔레트 → 사파이어 블루 중심 다크 팔레트 변경
+- 버튼·포커스·슬라이더·선택 상태, KPI/차트, 보안 경고 표시까지 색상 일관성 적용
+- v0.1과 동일한 정적 배포 방식 (`index.html`이 루트에 있도록 업로드)
+- Cloudflare Pages Git 연동 저장소에서 이 파일들을 교체하고 `main`에 푸시하면 자동 재배포됩니다.

diff --git a/검증기록.md b/검증기록.md
@@ -1,0 +1,42 @@
+# BR-B Threshold Lab v0.1 검증 기록
+
+검증일: 2026-11-24
+
+## 자동 계산 검사
+
+실행: `node --test tests/*.test.mjs`
+
+총 11개 / 통과 11개 / 실패 0개. 다음 영역을 확인했습니다.
+
+- 논문 표 1·2의 4~10회 TP+FN=300, FP+TN=700, 합계 1,000 유지
+- 본 실험 5회/6회 혼동행렬 271/29/203/497 및 233/67/102/598와 지표 일치
+- 사전 가설 H1 지지되지 않음 (FNR -12.67%p, FPR +14.43%p)
+- 7회 본 실험 FPR 0.00% / 사후 분포 변경 FPR 38.86%
+- 가정 비용값 5%, FN:FP=5:1일 때 7회, 30%/5:1일 때 4회가 최솟값
+- 데모 82 이벤트 → 12개 5분 구간 집계
+- 잘못된 입력/빈 입력/상충 라벨/행 수 초과 처리
+- UTC 5분 경계와 IP별 분리
+
+## 브라우저 렌더링 검사
+
+Headless Chromium에서 정적 HTML/CSS와 JS 엔진을 동일 문서에 로드하여 UI를 직접 조작했습니다. 환경 정책상 localhost HTTP 탐색이 막혀 있었으므로, **HTTP 서버를 통해 실제 배포 사이트에 접속하는 테스트는 수행하지 않았습니다.** 아래 검증은 브라우저 렌더링/조작 검사입니다.
+
+| 조건 | 측정 가로 넘침 | 초기 FNR | 5회 변경 FNR | 사후 7회 FPR | 브라우저 JS 오류 |
+|---|---:|---:|---:|---:|---:|
+| 1366×768 | 0 px | 22.33% | 9.67% | 38.86% | 0건 |
+| 1920×1080 | 0 px | 22.33% | 9.67% | 38.86% | 0건 |
+| 390×844 | 0 px | 22.33% | 9.67% | 38.86% | 0건 |
+
+추가로 각 화면에서 예시 CSV 분석, 악성/잘못된 한 줄 입력에 대한 오류 안내, 공격 비율 30% 변경, 보고서 내보내기 버튼 동작을 확인했습니다.
+
+## 미검증
+
+- 사용자가 ZIP을 새 임시 폴더에 해제하고 `python -m http.server 8000`으로 실제 실행하는 과정
+- 배포 HTTPS 주소와 시크릿 창 접근
+- BR-A 최종 확정 및 대표작 연결
+- 제3자의 1분 이해도/사용성 확인
+- 브라우저 전체 접근성 자동 검사 또는 전문 감사
+
+## 과제의 핵심 메시지
+
+본 실험은 '임계값을 낮추면 공격 누락은 줄지만 정상 오탐도 늘 수 있음'을 보여 줍니다. 후속 분포 변경은 특정 임계값의 성능이 데이터 분포에 의존함을 보여 줍니다. 해당 결과를 **연구 집계 탐색 → 가상 로그 판정 → 가정 비용 시나리오**로 변환했습니다.

diff --git a/검증기록_v0.2.md b/검증기록_v0.2.md
@@ -1,0 +1,29 @@
+# Threshold Lab v0.2 — 검증 기록
+
+검증일: 2026-11-24
+
+## 변경 범위
+- CSS 색상 값만 변경했으며 CSS 레이아웃·반응형 규칙·애니메이션·타이포그래피 선언은 동일합니다.
+- `index.html`: 브라우저 테마 색상과 화면 하단 버전 표기만 수정.
+- `app.mjs`, `engine.mjs`, `tests/engine.test.mjs`의 내용은 v0.1과 바이너리 단위로 동일합니다.
+
+## 자동 검사
+- Node.js `node --test tests/engine.test.mjs`: **11개 통과 / 0개 실패**.
+
+## 브라우저 검사 (Chromium)
+로컬 HTTP URL 및 file:// 직접 탐색은 검증 환경에서 `ERR_BLOCKED_BY_ADMINISTRATOR`로 차단되었습니다. 따라서 브라우저의 `set_content`로 동일 HTML을 불러오고 CSS와 JS 소스를 메모리에서 주입해 렌더링 및 인터랙션을 검사했습니다. **실제 HTTP 접속 / Cloudflare 공개 URL 접근은 검증하지 않았습니다.**
+
+- 1920×1080: 수평 넘침 0px, JavaScript 오류 0건.
+- 1366×768: 수평 넘침 0px, JavaScript 오류 0건.
+- 390×844: 수평 넘침 0px, JavaScript 오류 0건.
+- 5회 선택: FNR 9.67%, FPR 29.00% 표시.
+- 사후 분포 변경: 선택 버튼 반영 및 5회 FNR 27.33% 표시.
+- 예시 CSV 탐지: 12구간, 경보 9건 결과 표시.
+- 손상 CSV 입력: 오류 안내 표시, 브라우저 예외 없음.
+- 가정 공격 비율 30%, 비용비 5배: 계산상 기준 4회 표시.
+- TXT 보고서: `threshold-lab-summary.txt` 다운로드 이벤트 확인.
+
+검사 상세 JSON: `test-results.json`
+
+## 남은 검증
+사용자의 Cloudflare Pages 공개 배포 주소에서 새 시크릿 창으로 최종 UI와 데이터 로딩을 확인해야 합니다. 배포를 직접 변경하지 않았습니다.

diff --git a/디자인_변경사항.md b/디자인_변경사항.md
@@ -1,0 +1,21 @@
+# BR-B Threshold Lab v0.2 — 색상 변경 기록
+
+## 요청 및 적용 범위
+- 기존 v0.1 화면 구성, 반응형 그리드, 타이포그래피, 컴포넌트 배치 유지
+- **색상만** 청록/녹색 중심에서 사파이어 블루 중심으로 교체
+- FNR(초록)·FPR(코랄)·경고(앰버)는 의미를 전달하기 위해 유지
+- 기능 구현 코드(`app.mjs`, `engine.mjs`, `tests/engine.test.mjs`) 변경 없음
+
+## 대표 색상
+| 용도 | v0.1 | v0.2 |
+| --- | --- | --- |
+| 배경 | `#0a111c` | `#081324` |
+| 패널 | `#101d2b` | `#11243d` |
+| 선·테두리 | `#23384b` | `#294467` |
+| 일반 텍스트 | `#e7f0f7` | `#edf5ff` |
+| 대표 강조색 | `#44d5c1` | `#66acff` |
+| 초록 성공/탐지 누락 감소 | `#75d8a9` | `#79e6b1` |
+| 코랄 오류/오탐 증가 | `#f38e8a` | `#ff939b` |
+
+## 검증
+검증 내역은 `검증기록_v0.2.md` 참조.
